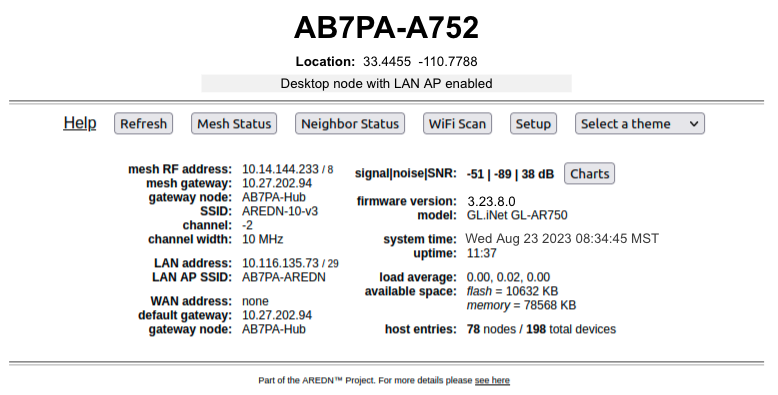
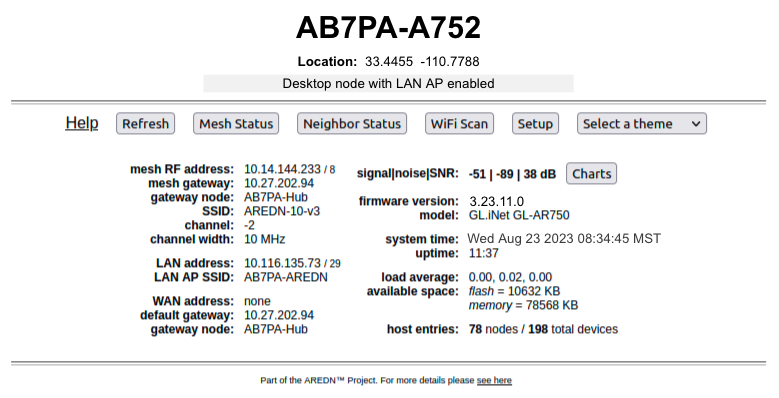
Prepare-3.23.11.0-pretag

diff --git a/conf.py b/conf.py
@@ -25,9 +25,9 @@ copyright = f'{date.today().year}, Amateur Radio Emergency Data Network, Inc. Li
 author = u'Amateur Radio Emergency Data Network, Inc.'
 
 # The short X.Y version
-version = u'latest'
+version = u'3.23.11.0'
 # The full version, including alpha/beta/rc tags
-release = u'latest'
+release = u'3.23.11.0'
 
 # -- General configuration ---------------------------------------------------
 
